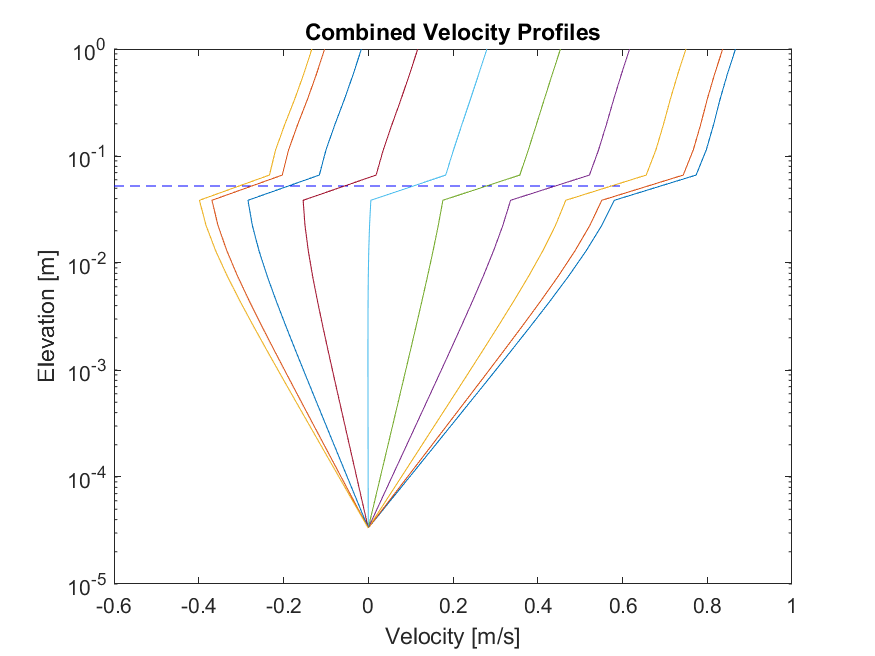
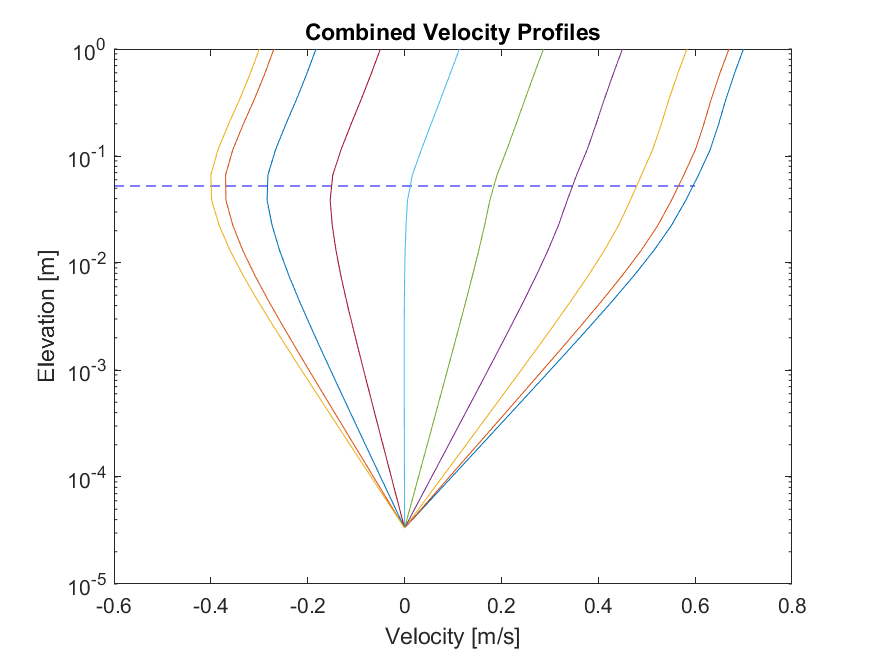
fixed error in current profiles

diff --git a/m94_orbital.m b/m94_orbital.m
@@ -55,9 +55,10 @@ ucx = zeros(nz,1);
 ucy = zeros(nz,1);
 below = (z<=delw);
 ucx(z<=delw) = (m.ustrc.^2/(vk*m.ustrr))*log(z(z<=delw)./zo) .*cos(phiwc);
-ucx(z>delw)  = (m.ustrc/vk)*log(z(z>delw)./zo) .*cos(phiwc);
+ucx(z>delw)  = (m.ustrc/vk)*log(z(z>delw)./m.zoa) .*cos(phiwc);
 ucy(z<=delw) = (m.ustrc.^2/(vk*m.ustrr))*log(z(z<=delw)./zo) .*sin(phiwc);
-ucy(z>delw)  = (m.ustrc/vk)*log(z(z>delw)./zo) .*sin(phiwc);
+ucy(z>delw)  = (m.ustrc/vk)*log(z(z>delw)./m.zoa) .*sin(phiwc);
+
 
 figure(1); clf
 plot(1.2*[-ubr ubr],[m.dwc,m.dwc],'--b')
